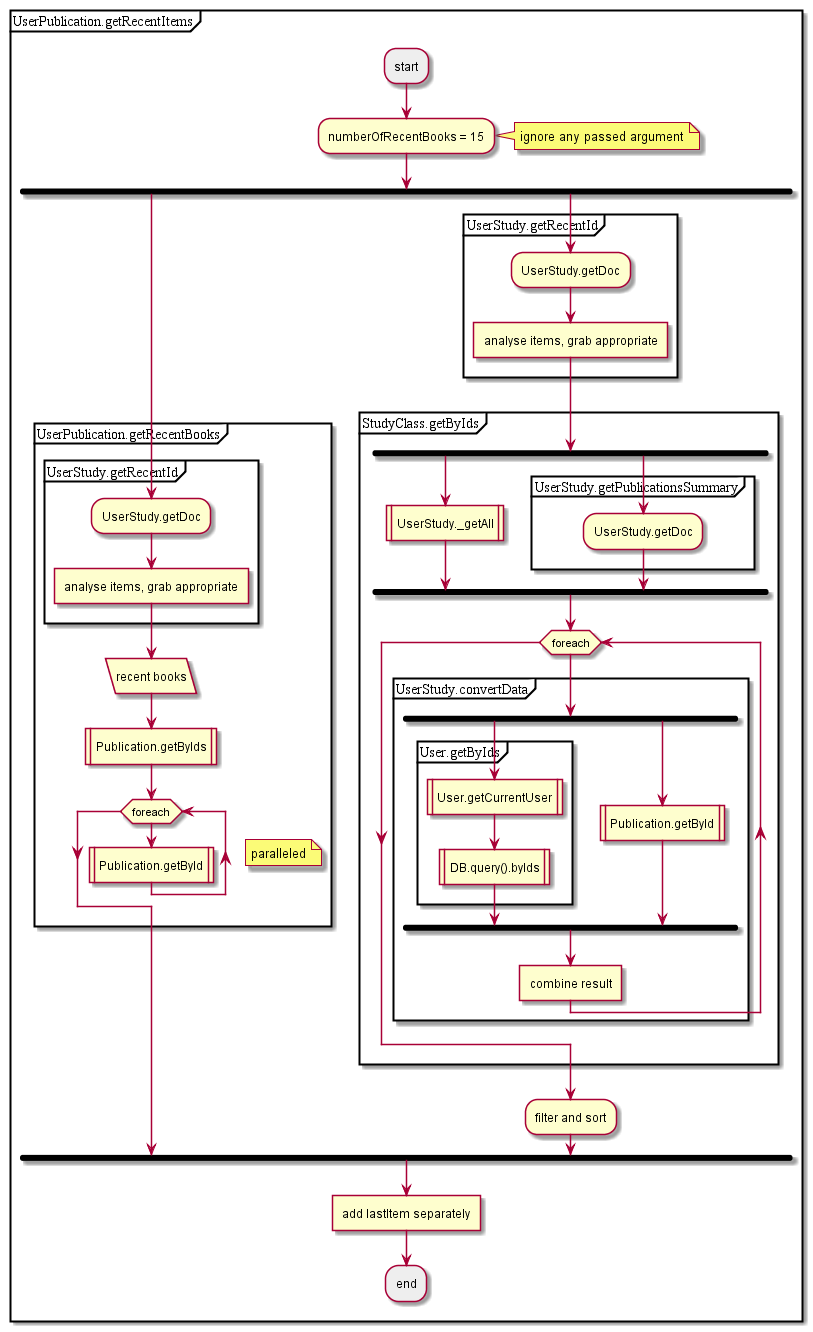
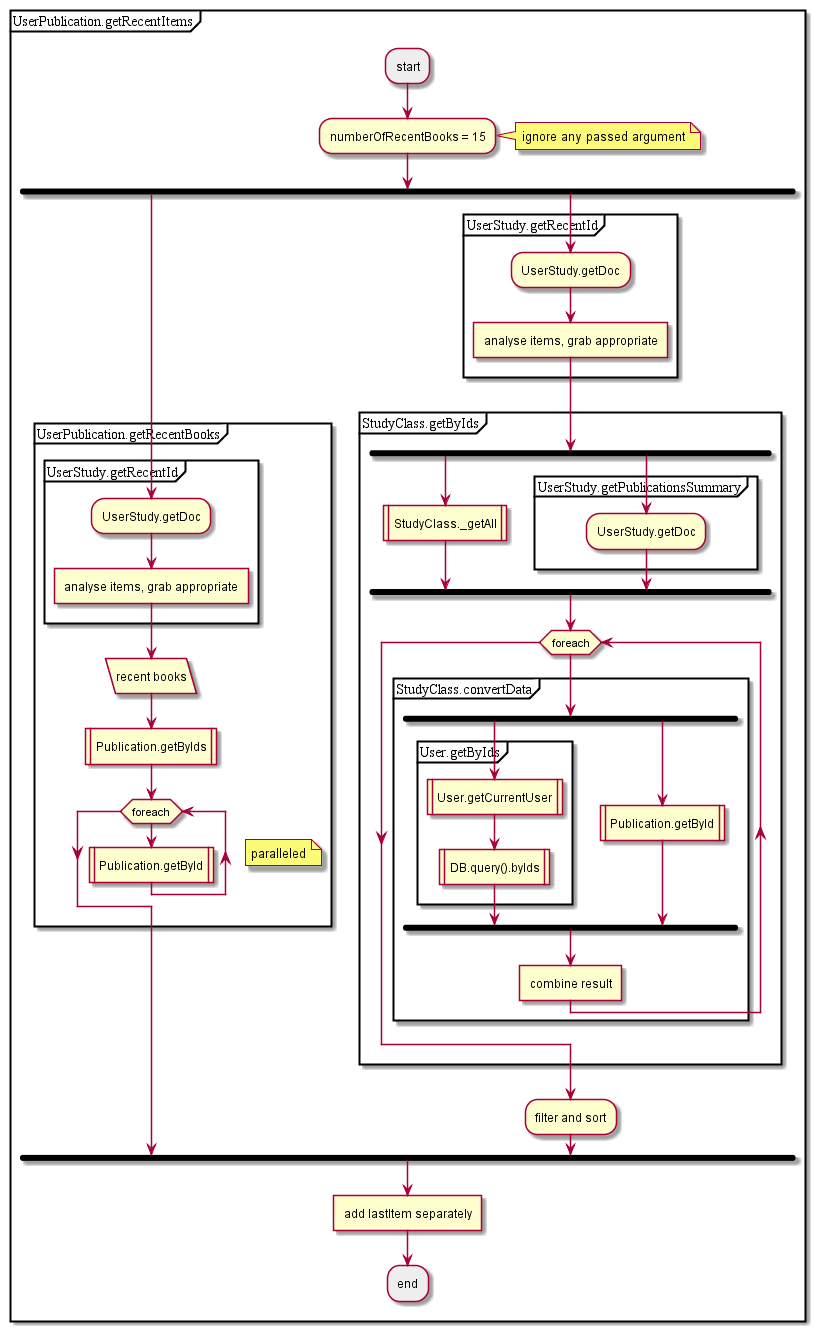
wiki text fix

diff --git a/controller/UserStudy.md b/controller/UserStudy.md
@@ -2,31 +2,14 @@
 
 ## Contents
 
-* [controller.userStudy POST persistprogress](#controlleruserstudy-post-persistprogress)
 * [GET activityByItem](#get-activitybyitem)
 * [POST initiate](#post-initiate)
 * [POST persistEssay](#post-persistessay)
 * [POST persistParagraphSummary](#post-persistparagraphsummary)
+* [POST persistprogress](#post-persistprogress)
 * [POST persistTest](#post-persisttest)
 * [POST readingprogresstracking](#post-readingprogresstracking)
 * [POST searchuserstudy](#post-searchuserstudy)
-
-
-## controller.userStudy POST persistprogress
-
-Client:
-
-1. Save activity data
-1. If book reading completed - add to my books
-
-Agent:
-
-1. Add activity to allActivity doc in user query DB
-1. Iterate over activity for classes, get course DB (loop)
-1. If .readingDuration wasn’t changed - skip
-1. Clean unused info and leave progress for last 7 days only
-
-![schema](../diagrams/UserStudy.POST.persistprogress.png)  
 
 
 ## GET activityByItem
@@ -74,6 +57,23 @@ See also:
 1. ~~Handle activity change~~
 
 ![schema](../diagrams/UserStudy.POST.persistParagraphSummary.png)  
+
+
+## POST persistprogress
+
+Client:
+
+1. Save activity data
+1. If book reading completed - add to my books
+
+Agent:
+
+1. Add activity to allActivity doc in user query DB
+1. Iterate over activity for classes, get course DB (loop)
+1. If .readingDuration wasn’t changed - skip
+1. Clean unused info and leave progress for last 7 days only
+
+![schema](../diagrams/UserStudy.POST.persistprogress.png)  
 
 
 ## POST persistTest

diff --git a/dao/StudyClass.md b/dao/StudyClass.md
@@ -1,9 +1,19 @@
 # StudyClass
 
+## Contents
+
+* [_getAll](#_getall)
+* [getByIds](#getbyids)
+
+
+## _getAll
+
+
+![schema](../diagrams/StudyClass._getAll.png)  
 
 
 ## getByIds
 
-See also [Publication.getById](../dao/Publication.md#getbyid)
+See also [ublication.getById](../Publication.md#getbyid) and [tudyClass._getAll](../StudyClass.md#_getall)
 
 ![schema](../diagrams/StudyClass.getByIds.png)  

diff --git a/controller/Materials.md b/controller/Materials.md
@@ -10,7 +10,7 @@
 
 ## About
 
-See also [Publication.getById](../dao/Publication#getbyid) and [Publication.getByIds](../dao/Publication#getbyids)
+See also [ublication.getById](../Publication.md#getbyid) and [ublication.getByIds](../Publication.md#getbyids)
 
 
 ## GET annotations

diff --git a/controller/ManageTests.md b/controller/ManageTests.md
@@ -8,7 +8,7 @@
 
 ## About
 
-See also [Publication.getById](../dao/Publication#getbyid) and [Publication.getByIds](../dao/Publication#getbyids)
+See also [ublication.getById](../Publication.md#getbyid) and [ublication.getByIds](../Publication.md#getbyids)
 
 
 ## GET getTest

diff --git a/dao/Discussion.md b/dao/Discussion.md
@@ -6,5 +6,7 @@
 
 _private method_
 
+See: [ser.getCurrentUser](../User.md#getcurrentuser)
+
 
 ![schema](../diagrams/Discussion.getByPrefix.png)  

diff --git a/dao/Message.md b/dao/Message.md
@@ -5,4 +5,5 @@
 ## persist
 
 TODO: link DB.userRW().createTask
+
 ![schema](../diagrams/Message.persist.png)  
